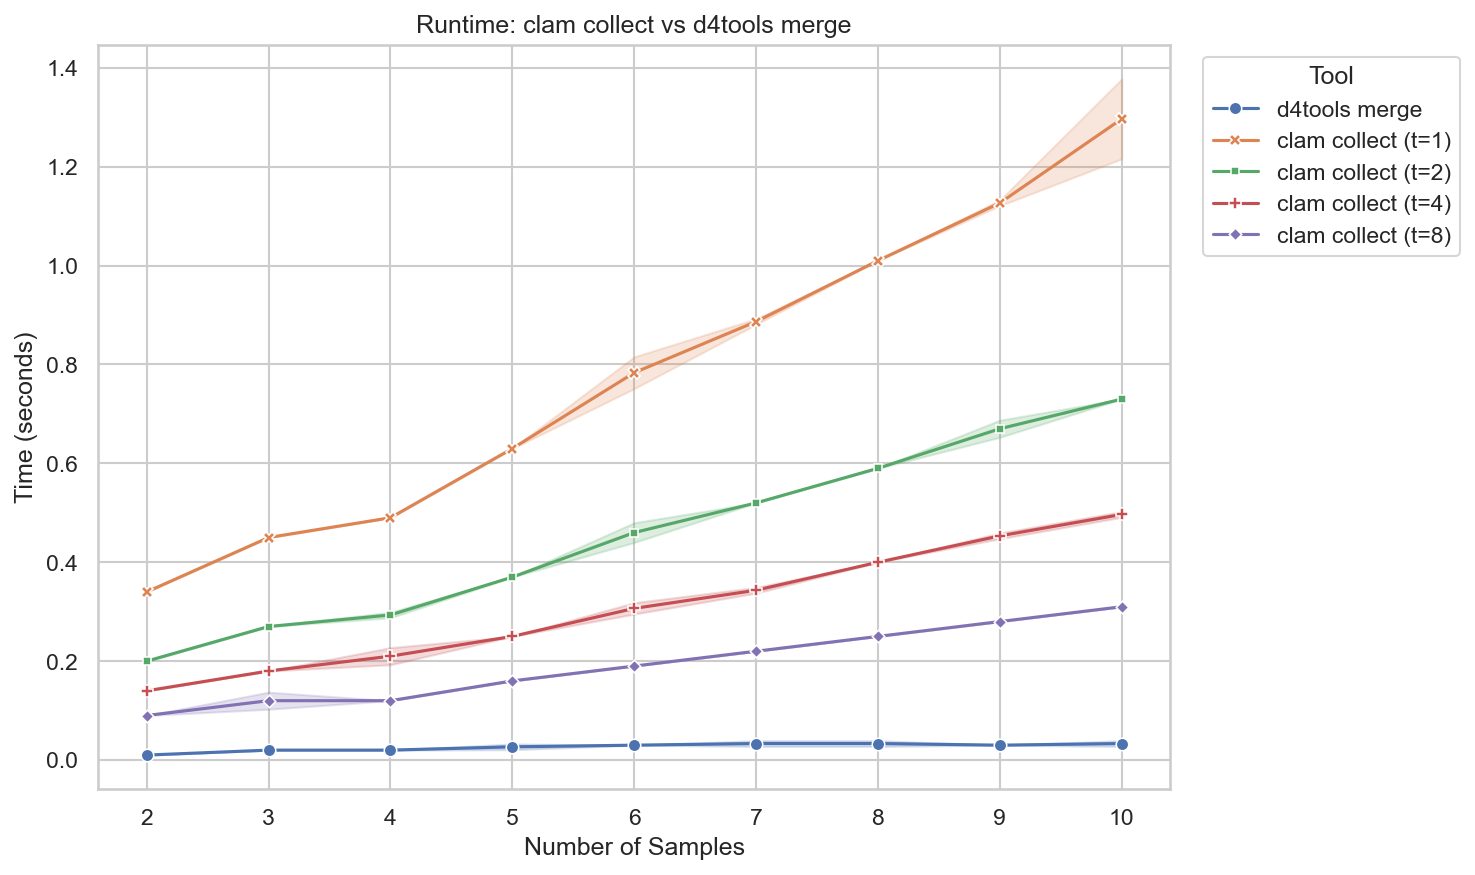
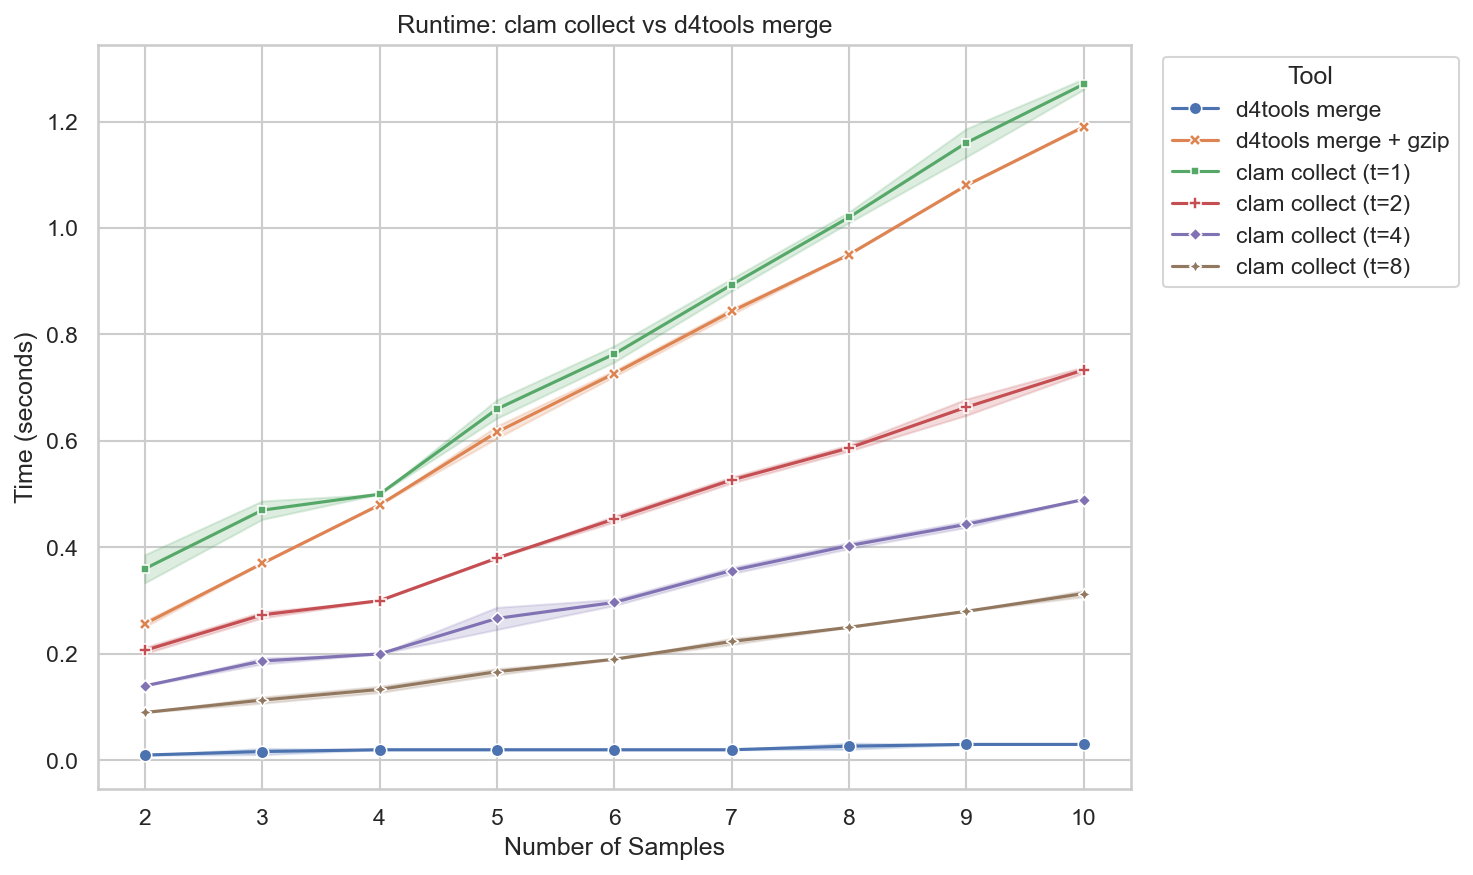
docs: add gzip d4 comparison to benchmark

diff --git a/benches/workflow/scripts/plot_benchmarks.py b/benches/workflow/scripts/plot_benchmarks.py
@@ -55,6 +55,21 @@ def collect_benchmark_data(
                     }
                 )
 
+    # d4tools merge + gzip benchmarks
+    for n in sample_counts:
+        bench_file = benchmark_dir / "d4tools_merge_gzip" / f"n{n}.tsv"
+        if bench_file.exists():
+            df = parse_benchmark_file(bench_file)
+            for _, row in df.iterrows():
+                records.append(
+                    {
+                        "tool": "d4tools merge + gzip",
+                        "samples": n,
+                        "threads": 1,
+                        "time_s": row["s"],
+                    }
+                )
+
     # clam collect benchmarks
     for n in sample_counts:
         for t in clam_threads:
@@ -78,6 +93,7 @@ def collect_size_data(
     sample_counts: list[int],
     clam_threads: list[int],
     merged_d4_dir: Path,
+    merged_d4_gz_dir: Path,
     zarr_dir: Path,
 ) -> pd.DataFrame:
     """Collect output size data."""
@@ -91,6 +107,19 @@ def collect_size_data(
             records.append(
                 {
                     "tool": "d4tools merge",
+                    "samples": n,
+                    "size_mb": size_bytes / (1024 * 1024),
+                }
+            )
+
+    # d4tools merge gzipped output sizes
+    for n in sample_counts:
+        d4_gz_file = merged_d4_gz_dir / f"n{n}.d4.gz"
+        if d4_gz_file.exists():
+            size_bytes = get_file_size(d4_gz_file)
+            records.append(
+                {
+                    "tool": "d4tools merge (gzip)",
                     "samples": n,
                     "size_mb": size_bytes / (1024 * 1024),
                 }
@@ -173,6 +202,7 @@ def main() -> None:
     # Directories (relative to working directory)
     benchmark_dir = Path("benchmarks")
     merged_d4_dir = Path("results/merged_d4")
+    merged_d4_gz_dir = Path("results/merged_d4_gz")
     zarr_dir = Path("results/zarr")
 
     # Output paths
@@ -184,7 +214,9 @@ def main() -> None:
 
     # Collect data
     runtime_df = collect_benchmark_data(sample_counts, clam_threads, benchmark_dir)
-    size_df = collect_size_data(sample_counts, clam_threads, merged_d4_dir, zarr_dir)
+    size_df = collect_size_data(
+        sample_counts, clam_threads, merged_d4_dir, merged_d4_gz_dir, zarr_dir
+    )
 
     # Generate plots
     plot_runtime(runtime_df, runtime_plot)

diff --git a/benches/README.md b/benches/README.md
@@ -1,6 +1,17 @@
 # Benchmarking: clam collect vs d4tools merge
 
-Compares `clam collect` and `d4tools merge` for combining per-sample depth files, measuring runtime and output size as sample count increases.
+Compares different approaches for combining per-sample depth files into a single multi-sample store:
+
+| Tool                   | Output Format         | Description                                  |
+| ---------------------- | --------------------- | -------------------------------------------- |
+| `clam collect`         | Zarr (Blosc + Zstd)   | Collects D4 files into a chunked Zarr array  |
+| `d4tools merge`        | D4 (uncompressed)     | Merges D4 files into a multi-track D4 file   |
+| `d4tools merge + gzip` | D4 (bgzip compressed) | Same as above, followed by bgzip compression |
+
+The benchmark measures:
+- **Runtime**: How long each tool takes as sample count increases (2-10 samples)
+- **Output size**: Resulting file/directory size in MB
+- **Thread scaling**: `clam collect` is tested with 1, 2, 4, and 8 threads (`d4tools merge` does not support multithreading)
 
 ## System
 
@@ -33,5 +44,4 @@ The `io_heavy=1` resource ensures benchmarked rules run sequentially to avoid I/
 
 ## TODO
 
-- Add gzipped D4 comparison
 - Add downstream analysis (sum, mean, etc.) benchmarks using D4 or Zarr (with Dask)
